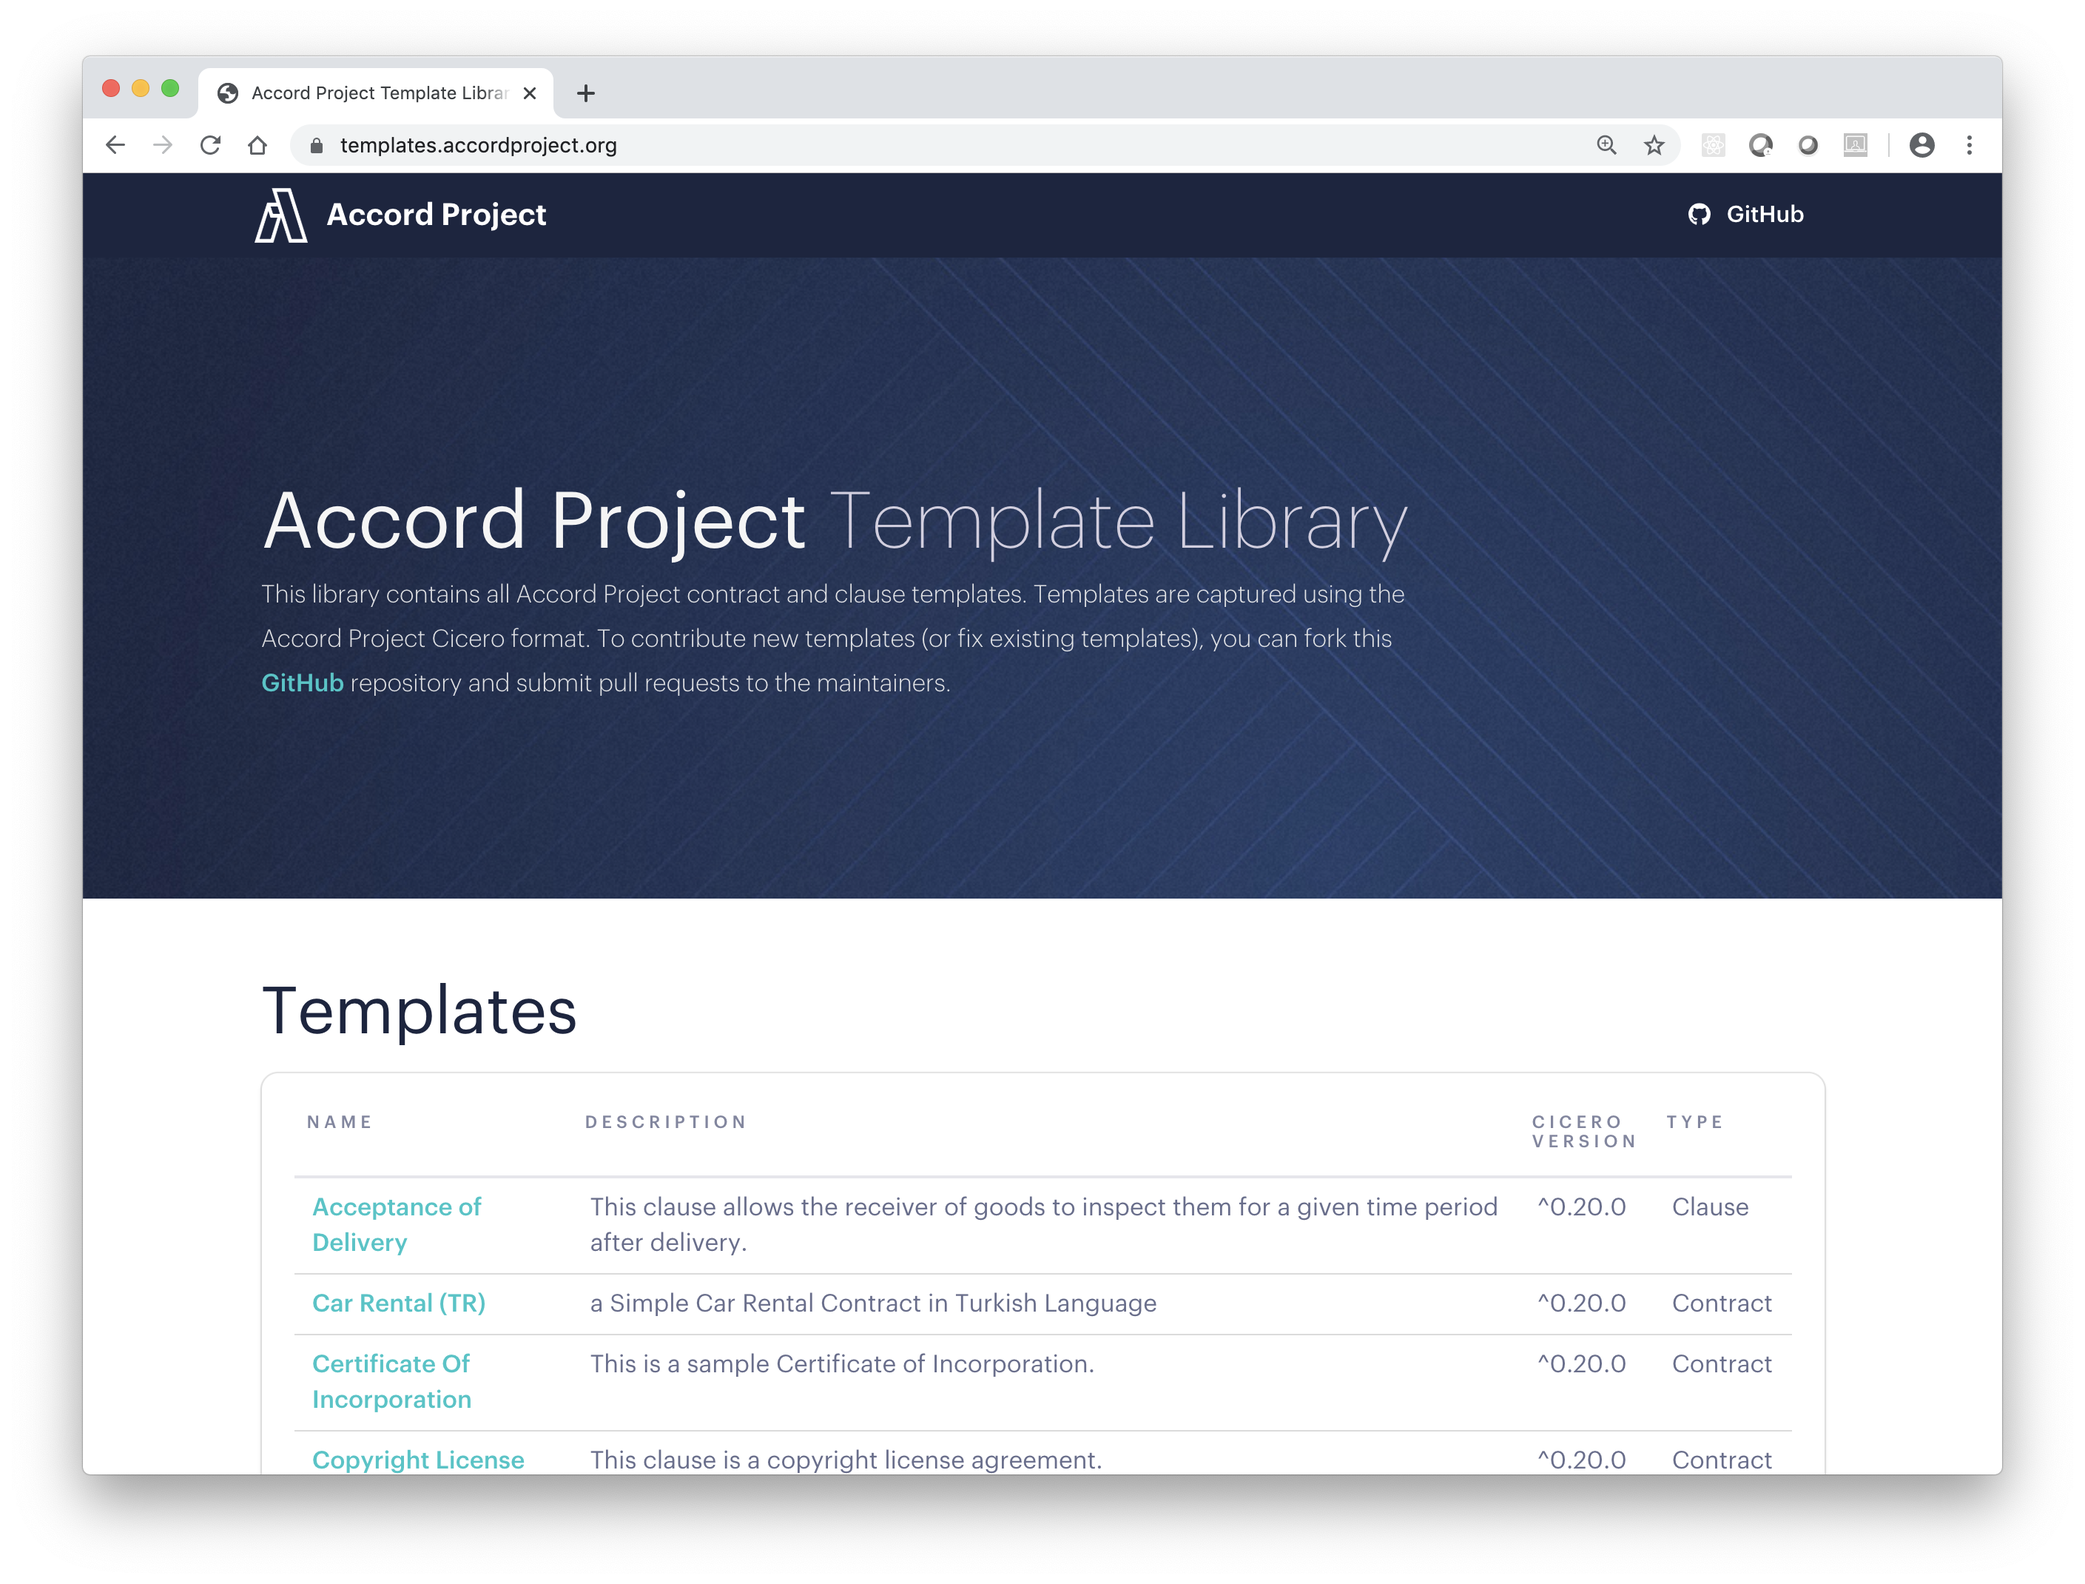
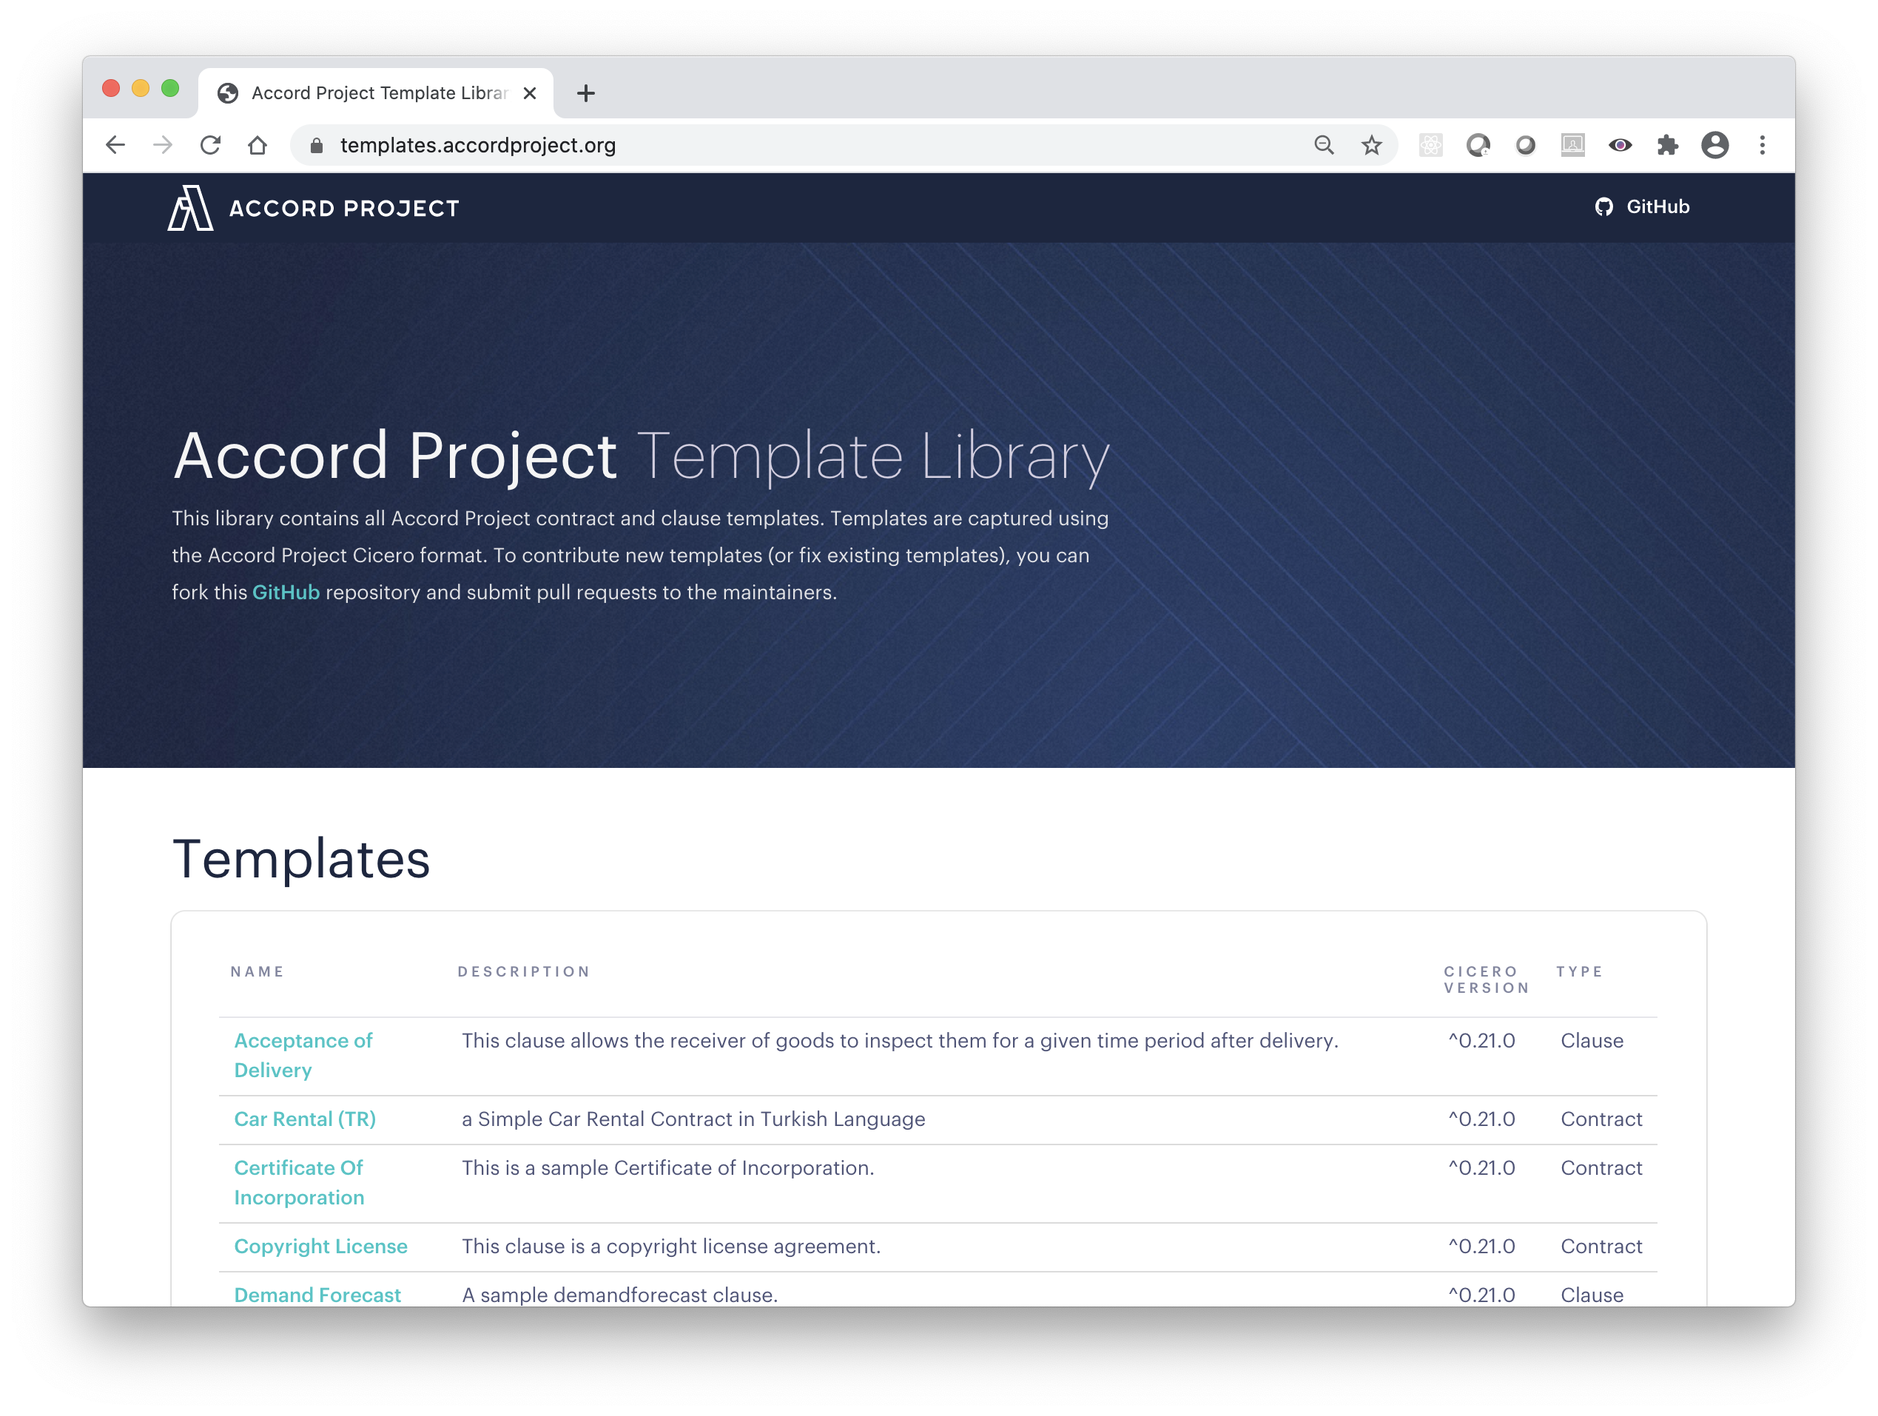
doc(version) Some initial work on documentation for 0.21

diff --git a/docs/markup-template.md b/docs/markup-template.md
@@ -1,0 +1,165 @@
+---
+id: markup-template
+title: TemplateMark Overview
+---
+
+## Preliminaries
+
+The Cicero markup language (or CiceroMark) is used to express the natural language text for legal clauses or contracts. As with other markup languages, CiceroMark can express document structure (e.g., headings, paragraphs, lists) as well as formatting useful for readability (e.g., italics, bold, quotations). In addition, CiceroMark can also include variables for the template and calculations based on the values of those variables.
+
+CiceroMark looks like regular [Markdown](https://en.wikipedia.org/wiki/Markdown), with embedded CiceroMark expressions. Let us look again at the [fixed rate loan](https://templates.accordproject.org/fixed-interests-static@0.2.0.html) clause that was used in the [Overview](accordproject) Section of this documentation.
+
+```tem
+## Fixed rate loan
+
+This is a *fixed interest* loan to the amount of {{loanAmount}}
+at the yearly interest rate of {{rate}}%
+with a loan term of {{loanDuration}},
+and monthly payments of {{% monthlyPaymentFormula(loanAmount,rate,loanDuration) %}}
+```
+
+This example illustrates all the key features of CiceroMark:
+1. _Markdown_: e.g., `## Fixed rate loan` for level 2 heading, and `*fixed interest*` for italics.
+2. _Variable expressions_: e.g., `{{loanAmount}}` which is the amount for the loan.
+3. _Ergo expressions_: e.g., `{{% monthlyPaymentFormula(loanAmount,rate,loanDuration) %}}` which calculates the monthly payment based on the `loanAmount`, `rate`, and `loanDuration` variables.
+
+### Lexical Conventions
+
+CiceroMark is a string of `UTF-8` characters.
+
+:::note
+By convention, CiceroMark files have the `.md` extensions for a sample text, or `.tem.md` extension for a grammar.
+:::
+
+The two sequences of characters `{{` and `}}` are reserved and used for CiceroMark expressions.
+
+### Markdown
+
+CiceroMark is based on the [CommonMark](https://commonmark.org) markdown syntax.
+
+Except for the two sequences of characters `{{` and `}}` CiceroMark follows the [CommonMark specification](https://spec.commonmark.org/0.29/) (a new line followed by the character `#` is interpreted as a level-1 heading, two new lines followed by text is interpreted as a paragraph, etc).
+
+An introduction to CommonMark can be found in the [Rich Text Markdown](markup-commonmark) Section.
+
+### CiceroMark Expressions
+
+There are three kinds of CiceroMark expressions, which are similar to expressions found in other templating systems such as [Handlebars](https://handlebarsjs.com):
+- variable expressions (written `{{variableName}}`) which may include an optional formatting (written `{{variableName as "FORMAT"}}`).
+- block expressions which may contain additional text or markup (written `{{#blockName variableName}} ... text and markup ... {{/blockName}}`).
+- Ergo expressions (written `{{% ergoExpression %}}`).
+
+Details and examples of CiceroMark expressions can be found in the [Variable Expressions](markup-variables), [Block Expressions](markup-blocks) and [Ergo Expressions](markup-ergo) Sections.
+
+## Processing CiceroMark
+
+There are two main operations on CiceroMark: **drafting** and **parsing**.
+
+Drafting creates text from data in the [JSON](http://json.org) format. Parsing extracts data in the JSON format from text.
+
+We have already illustrated those operations in the [Hello World Template](started-hello) tutorial, but we review them again here with a focus on how they behave with respect to CiceroMark.
+
+### Drafting: From Data to Text
+
+The most direct way to understand CiceroMark is as a way to generate text from input data. Let's consider the following data, which associates values to the variables in the fixed rate loan template.
+```json
+{
+  "$class": "org.accordproject.interests.TemplateModel",
+  "clauseId": "1055c2eb-1cf7-438d-81c7-ec7a91374d9e",
+  "loanAmount": 100000.0,
+  "rate": 2.5,
+  "loanDuration": 15
+}
+```
+
+From the template and that data, one can create the corresponding clause text:
+
+```md
+## Fixed rate loan
+
+This is a *fixed interest* loan to the amount of 10000.0
+at the yearly interest rate of 2.5%
+with a loan term of 15,
+and monthly payments of {{667}}
+```
+
+:::tip
+Going from data to text can be done using the [`cicero draft`](cicero-cli.html#cicero-draft) command.
+:::
+
+The variables are replaced by their values in the text, and the Ergo expression which calculates the monthly payment is evaluated (yielding `667` in this example). In most of this guide, we use text generation to illustrate CiceroMark. However we can also use the template to go from text to data.
+
+### Parsing: From Text to Data
+
+Parsing performs the reverse operation and extract data from text. So from the previous clause text:
+
+```md
+## Fixed rate loan
+
+This is a *fixed interest* loan to the amount of 150000.0
+at the yearly interest rate of 3.5%
+with a loan term of 20,
+and monthly payments of {{870}}
+```
+
+parsing will extract the following deal data in JSON format:
+```json
+{
+  "$class": "org.accordproject.interests.TemplateModel",
+  "clauseId": "1055c2eb-1cf7-438d-81c7-ec7a91374d9e",
+  "loanAmount": 150000.0,
+  "rate": 3.5,
+  "loanDuration": 20
+}
+```
+
+:::tip
+Going from text to data can be done using the [`cicero parse`](cicero-cli.html#cicero-parse) command.
+:::
+
+Several important remarks are important about parsing.
+
+First, parsing will expect the values corresponding to variable or Ergo expressions to adhere to a specific syntax. Notably, text corresponding to variable expressions with the type `String` have to be quoted with `"`, and text corresponding to Ergo expressions have to be quoted with `{{ ... }}`.
+
+Second, because markdown sometimes allows the same thing to be written in different ways, parsing is resilient to those variations. For instance, the following text uses a [Setext Heading](https://spec.commonmark.org/0.29/#setext-headings) rather than an [ATX Heading](https://spec.commonmark.org/0.29/#atx-headings) and uses `_fixed interest_` rather than `*fixed interest*` for italics, but it will parse with the same grammar and yield the same data:
+```md
+Fixed rate loan
+----
+
+This is a _fixed interest_ loan to the amount of 150000.0
+at the yearly interest rate of 3.5%
+with a loan term of 20,
+and monthly payments of {{870}}
+```
+
+Finally, parsing ignores the text corresponding to the Ergo expression `{{870}}` since it only needs to extract the other variables. This means the following text will parse with the same grammar and yield the same data:
+```md
+Fixed rate loan
+----
+
+This is a _fixed interest_ loan to the amount of 150000.0
+at the yearly interest rate of 3.5%
+with a loan term of 20,
+and monthly payments of {{anything else here}}
+```
+
+:::tip
+For convenience, the command [`cicero normalize`](cicero-cli.html#cicero-normalize) can be used to parse, then re-draft a CiceroMark document, allowing a user to both normalize the markdown and to recalculate the Ergo expressions. For instance, [`cicero normalize`](cicero-cli.html#cicero-normalize) applied to the following document:
+```md
+## Fixed rate loan
+
+This is a _fixed interest_ loan to the amount of 150000.0
+at the yearly interest rate of 3.5%
+with a loan term of 20,
+and monthly payments of {{anything else here}}
+```
+yields the normalized document:
+```md
+Fixed rate loan
+----
+
+This is a *fixed interest* loan to the amount of 150000.0
+at the yearly interest rate of 3.5%
+with a loan term of 20,
+and monthly payments of {{870}}
+```
+:::

diff --git a/docs/started-hello.md b/docs/started-hello.md
@@ -37,11 +37,11 @@ Thank you!
 Then run the `cicero parse` command in your terminal to load the template and parse your sample clause text. This should be echoing the result of parsing back to your terminal.
 
 ```bash
-cicero parse --template helloworld@0.12.0.cta --sample sample.md
+cicero parse --template helloworld@0.13.0.cta --sample sample.md
 ```
 
 :::note
-* Templates are tied to a specific version of the cicero tool. Make sure that the version number output from `cicero --version` is compatible with the template. Look for `^0.20.0` or similar at the top of the template web page.
+* Templates are tied to a specific version of the cicero tool. Make sure that the version number output from `cicero --version` is compatible with the template. Look for `^0.21.0` or similar at the top of the template web page.
 * `cicero parse` requires network access. Make sure that you are online and that your firewall or proxy allows access to `https://models.accordproject.org`
 :::
 
@@ -57,7 +57,7 @@ This should extract the data (or "deal points") from the text and output:
 
 You can save the result of `cicero parse` into a file using the `--output` option:
 ```
-cicero parse --template helloworld@0.12.0.cta --sample sample.md --output data.json
+cicero parse --template helloworld@0.13.0.cta --sample sample.md --output data.json
 ```
 
 ### Parse Non-Valid Text
@@ -71,7 +71,7 @@ FUBAR Name of the person to greet: "Fred Blogs".
 Thank you!
 ```
 
-Then run `cicero parse --template helloworld@0.12.0.cta --sample sample.md` again. The output should now be:
+Then run `cicero parse --template helloworld@0.13.0.cta --sample sample.md` again. The output should now be:
 
 ```text
 18:15:22 - error: invalid syntax at line 1 col 1:
@@ -98,7 +98,7 @@ If you have saved the deal data earlier in a `data.json` file, you can edit it t
 
 Then run the `cicero draft` command in your terminal:
 ```
-cicero draft --template helloworld@0.12.0.cta --data data.json
+cicero draft --template helloworld@0.13.0.cta --data data.json
 ```
 
 This should create a new contract text and output:
@@ -109,7 +109,7 @@ Thank you!
 
 You can save the result of `cicero draft` into a file using the `--output` option:
 ```
-cicero draft --template helloworld@0.12.0.cta --data data.json --output new-sample.md
+cicero draft --template helloworld@0.13.0.cta --data data.json --output new-sample.md
 ```
 
 ### Draft from Non-Valid Data
@@ -124,7 +124,7 @@ Edit your `data.json` file so that the `name` variable is missing:
 }
 ```
 
-Then run `cicero draft --template helloworld@0.12.0.cta --data data.json` again. The output should now be:
+Then run `cicero draft --template helloworld@0.13.0.cta --data data.json` again. The output should now be:
 ```
 13:38:11 - error: Instance org.accordproject.helloworld.HelloWorldClause#6f91e060-f837-4108-bead-63891a91ce3a missing required field name
 ```
@@ -150,7 +150,7 @@ This is the request which you will send to trigger the execution of your contrac
 Then run the `cicero trigger` command in your terminal to load the template, parse your clause text *and* send the request. This should be echoing the result of execution back to your terminal.
 
 ```bash
-cicero trigger --template helloworld@0.12.0.cta --sample sample.md --request request.json
+cicero trigger --template helloworld@0.13.0.cta --sample sample.md --request request.json
 ```
 
 This should print this output:
@@ -158,7 +158,7 @@ This should print this output:
 ```json
 13:42:29 - info:
 {
-  "clause": "helloworld@0.12.0-c03393f7e50865012e6005050fcaccb2716481fa7599905f7306673cf15857cf",
+  "clause": "helloworld@0.13.0-c03393f7e50865012e6005050fcaccb2716481fa7599905f7306673cf15857cf",
   "request": {
     "$class": "org.accordproject.helloworld.MyRequest",
     "input": "Accord Project"
@@ -198,7 +198,7 @@ Edit your `request.json` file so that the `input` variable is missing:
 }
 ```
 
-Then run `cicero trigger --template helloworld@0.12.0.cta --sample sample.md --request request.json ` again. The output should now be:
+Then run `cicero trigger --template helloworld@0.13.0.cta --sample sample.md --request request.json ` again. The output should now be:
 ```
 13:47:35 - error: Instance org.accordproject.helloworld.MyRequest#b0b1cbcc-dcae-4758-b9fc-254a43aa10a8 missing required field input
 ```

diff --git a/docs/accordproject.md b/docs/accordproject.md
@@ -81,7 +81,7 @@ with a loan term of {{loanDuration}},
 and monthly payments of {{% monthlyPaymentFormula(loanAmount,rate,loanDuration) %}}.
 ```
 
-This is a simple example of the benefits of Machine-Executable contract, here adding logic to ensure that the value of the `{{monthlyPayment}}` in the text is always consistent with the other variables in the clause. In this example, we display the contract text using the underlying [CiceroMark](markup-cicero) format, instead of the rich-text output that would be found in [editor tools](started-resources#ecosystem-tools) and PDF outputs.
+This is a simple example of the benefits of Machine-Executable contract, here adding logic to ensure that the value of the `{{monthlyPayment}}` in the text is always consistent with the other variables in the clause. In this example, we display the contract text using the underlying [Markup](markup-template) format, instead of the rich-text output that would be found in [editor tools](started-resources#ecosystem-tools) and PDF outputs.
 
 More complex examples, (e.g., how to add post-signature logic which responds to data sent to the contract or which triggers operations on external systems) can be found in the rest of this documentation.
 
@@ -100,6 +100,6 @@ If you are new to the Accord Project, please read the [Key Concepts](accordproje
 
 If you want to dive into our technology stack, you can find more information about:
 - Software implementation: [Cicero](https://github.com/accordproject/cicero)
-- Template text: [CiceroMark](markup-cicero)
-- Template model: [Concerto Modeling](model-concerto)
-- Template logic: [Ergo Logic](logic-ergo)
+- Template text: [Markup](markup-commonmark)
+- Template model: [Modeling](model-concerto)
+- Template logic: [Logic](logic-ergo)

diff --git a/docs/started-installation.md b/docs/started-installation.md
@@ -3,11 +3,11 @@ id: started-installation
 title: Install Cicero
 ---
 
-To experience the full power of Accord Project, you should install the Cicero command-line tools. This will let you author, validate, and run Accord Project templates on your own machine.
+To experiment with Accord Project, you can install the Cicero command-line. This will let you author, validate, and run Accord Project templates on your own machine.
 
 ## Prerequisites
 
-Before you install Cicero, you must first obtain and configure the following dependency:
+You must first obtain and configure the following dependency:
 
 * [Node.js (LTS)](http://nodejs.org): We use Node.js to run cicero, generate the documentation, run a development web server, testing, and produce distributable files. Depending on your system, you can install Node either from source or as a pre-packaged bundle.
 
@@ -22,7 +22,7 @@ npm install -g @accordproject/cicero-cli
 ```
 
 :::note
-You can install a specific version by appending `@version` at the end of the `npm install` command. For instance to install version `0.20.0` or version `0.13.4`:
+You can install a specific version by appending `@version` at the end of the `npm install` command. For instance to install version `0.20.3` or version `0.13.4`:
 ```bash
 npm install -g @accordproject/cicero-cli@0.20.3
 npm install -g @accordproject/cicero-cli@0.13.4

diff --git a/docs/accordproject-concepts.md b/docs/accordproject-concepts.md
@@ -83,13 +83,13 @@ obligations under this agreement, detailed in "Attachment X", attached
 to this agreement.
 ```
 
-### CiceroMark
+### TemplateMark
 
-CiceroMark is the markup format in which the text for Accord Project templates is written. It defines notations (such as the `{{` and `}}` notation for variables used in the **Acceptance of Delivery** clause) which allows a computer to make sense of your templates.
+TemplateMark is the markup format in which the text for Accord Project templates is written. It defines notations (such as the `{{` and `}}` notation for variables used in the **Acceptance of Delivery** clause) which allows a computer to make sense of your templates.
 
 It also provides the ability to specify the document structure (e.g., headings, lists), to highlight certain terms (e.g., in bold or italics), to indicate text which is optional in the agreement, and more.
 
-_More information about the Accord Project markup can be found in the [CiceroMark](markup-cicero) Section of this documentation._
+_More information about the Accord Project markup can be found in the [TemplateMark](markup-template) Section of this documentation._
 
 ## Template Model
 
